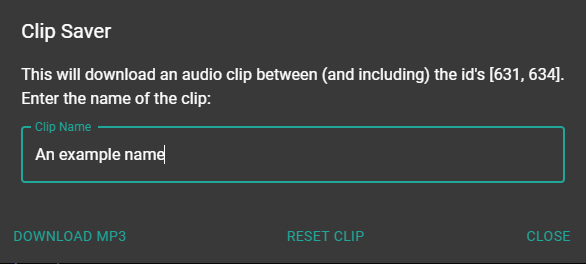
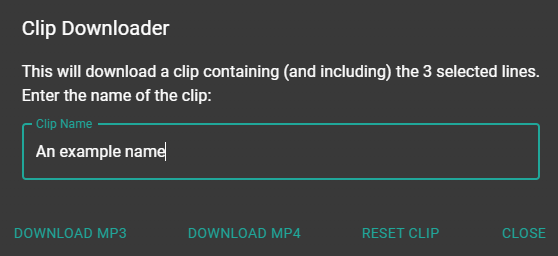
Updated docs

diff --git a/src/components/HelpPopup.jsx b/src/components/HelpPopup.jsx
@@ -7,7 +7,6 @@ import {
     DialogActions,
     DialogContent,
     DialogTitle,
-    Link,
     Typography,
 } from "@mui/material";
 import settings_img from "../assets/helpguide/settings.png";
@@ -41,13 +40,6 @@ export default function HelpPopup({ open, setOpen }) {
                 <DialogTitle id="alert-dialog-title">How to Use Live Transcript</DialogTitle>
                 <DialogContent>
                     <div>
-                        <p>
-                            A guide can also be found here:{" "}
-                            <Link href="https://github.com/duckautomata/live-transcript/blob/master/README.md#how-to-use">
-                                Live Transcript GitHub
-                            </Link>
-                        </p>
-
                         {/* Settings */}
                         <Accordion>
                             <AccordionSummary
@@ -74,6 +66,10 @@ export default function HelpPopup({ open, setOpen }) {
                                             System default will use whatever you set in your operating system. This is
                                             set by default.
                                         </blockquote>
+                                    </li>
+                                    <li>
+                                        Density: How much space should be between lines.
+                                        <blockquote>Select whichever makes it easier to read.</blockquote>
                                     </li>
                                     <li>
                                         Time Format: How you want the timestamp for each line to be formatted.
@@ -242,13 +238,17 @@ export default function HelpPopup({ open, setOpen }) {
                                 transcript. The benefits with using this instead of downloading each line separately is
                                 <ul>
                                     <li>Significantly faster since you do not have to combine them manually</li>
-                                    <li>No audio artifacts or missed audio between lines due to encoding issues</li>
+                                    <li>No artifacts or missed media between lines due to encoding issues</li>
                                     <li>Clearly see what you are clipping</li>
                                 </ul>
-                                As of now, only audio clipping is available.
+                                The type of clipping (mp3, mp4, or disabled) is determined by the server on what the
+                                server is storing. Depending on this, you will be able to see &#34;download mp3&#34;,
+                                &#34;download mp4&#34;, or nothing at all. The type of clipping can be changed when
+                                needed.
+                                <Typography variant="body1" gutterBottom />
                                 <Typography variant="body1" gutterBottom>
-                                    To start clipping, click on a line id and select &#34;Start Clipping&#34;. This will
-                                    do the following:
+                                    To start clipping, click on the triple dots on the line you want to clip; and select
+                                    &#34;Start Clip&#34;. This will do the following:
                                 </Typography>
                                 <ul>
                                     <li>
@@ -256,14 +256,14 @@ export default function HelpPopup({ open, setOpen }) {
                                         on the next id you pick)
                                     </li>
                                     <li>
-                                        Highlight all ids next to it in red to depict the range of the clip. Clips are
-                                        limited in how large they can get.
+                                        Highlight all triple dots next to it in orange to depict the range of the clip.
+                                        Clips are limited in how large they can get.
                                     </li>
                                     <li>Any lines that will be in the clip will now be highlighted in purple.</li>
                                 </ul>
                                 <img src={clippingStarted_img} width="100%" />
-                                To mark the second end of the clip, click on one of the red ids and click &#34;Download
-                                Clip&#34;.
+                                To mark the second end of the clip, click on one of the orange triple dots and click
+                                &#34;Process Clip&#34;.
                                 <img src={clippingMenuDownload_img} width="100%" />
                                 <Typography variant="caption">
                                     Caption: as you can see, the lines between 631 (the id I started with) and 634 (the
@@ -271,15 +271,19 @@ export default function HelpPopup({ open, setOpen }) {
                                     included in the clip.
                                 </Typography>
                                 <Typography variant="body1" gutterBottom>
-                                    When you click on the download button, a popup will appear. From here, give the clip
+                                    When you click on the process button, a popup will appear. From here, give the clip
                                     a name and click download to finish the clipping process.
+                                </Typography>
+                                <Typography variant="body1" gutterBottom>
+                                    Depending on what media type the server is storing, you will be able to download
+                                    mp3, mp4, or nothing.
                                 </Typography>
                                 <img src={clippingPopup_img} width="100%" />
                                 Important notes:
                                 <ul>
                                     <li>At any point, you can click Reset Clip to get out of the clipping process</li>
                                     <li>
-                                        If one of the lines in a clip does not have any audio (either it did not get
+                                        If one of the lines in a clip does not have any media (either it did not get
                                         saved or it was deleted), then the whole clip will get rejected and you will
                                         land on a Sever Error page.
                                     </li>

diff --git a/src/components/ClipperPopup.jsx b/src/components/ClipperPopup.jsx
@@ -51,11 +51,11 @@ const ClipperPopup = ({ wsKey }) => {
 
     return (
         <Dialog open={clipPopupOpen} onClose={handleClose}>
-            <DialogTitle>Clip Saver</DialogTitle>
+            <DialogTitle>Clip Downloader</DialogTitle>
             <DialogContent>
                 <Typography>
-                    This will download an audio clip between (and including) the ids [{clipStartIndex}, {clipEndIndex}
-                    ].
+                    This will download a clip containing (and including) the {1 + clipEndIndex - clipStartIndex}{" "}
+                    selected lines.
                 </Typography>
                 <Typography>Enter the name of the clip:</Typography>
                 <TextField

diff --git a/README.md b/README.md
@@ -7,13 +7,7 @@ Transcribes a live stream near real-time with a live latency of 4-6 seconds.
 _System_
 
 - **[Live Transcript System](#live-transcript-system)**
-
-_General_
-
-- **[Settings](#settings)**
-- **[Fix out-of-sync transcript](#fix-out-of-sync-transcript)**
-- **[Tagging Feature](#tagging-feature)**
-- **[Tagging Feature Notes](#note)**
+- **[Guide](#guide)**
 
 _Development_
 
@@ -27,78 +21,24 @@ _Development_
 ## System
 
 ### Live Transcript System
+
 Live Transcript is a system that contains three programs:
+
 - Worker: [live-transcript-worker](https://github.com/duckautomata/live-transcript-worker)
 - Server: [live-transcript-server](https://github.com/duckautomata/live-transcript-server)
 - Client: [live-transcript](https://github.com/duckautomata/live-transcript)
 
 All three programs work together to transcribe a livestream for us to use in real-time.
+
 - Worker will process a livestream, transcribe the audio, and then upload the results to the server.
 - Server acts as a cache layer between Worker and Client. It will store the current transcript. Once it receives a new transcript line, it will be broadcast to all connected clients.
 - Client (this) is the UI that renders the transcript for us to use.
 
-## How To Use
+### Guide
 
-![homepage](docs/homepage-example-light.png)
+A guide on how to use the website can be found by clicking the `Help` question mark icon on the sidebar.
 
-### Settings
-
-Settings are at the top right of the page. Click the cogwheel icon to view the settings menu.
-
-![settings](docs/settings.png)
-
-There are currently 5 settings. All settings are stored in a cookie and persist across sessions.
-
-- Theme: Select the color theme of the site. Light, Dark, or System default.
-    > System default will use whatever you set in your operating system. This is set by default.
-- Time Format: How you want the timestamp for each line to be formatted.
-    > Relative displays the time since the stream has started. Local displays the time in your local timezone.
-- New Lines at Top
-    > When enabled, new lines will appear at the top. When disabled, new lines will appear at the bottom. When disabled, you will need to constantly scroll down to see the newest lines.
-- Enable Tag Helper
-    > This enables a feature to help time a tag with the text that appears in the transcript. This will be explained further in [Tagging Feature](#tagging-feature).
-- Audio Downloader (beta)
-    > Enables you to download the mp3 file for a specific line. When enabled, click on the id you wish to download. Then select either "Download Audio" or "Play Audio".
-
-### Fix out-of-sync transcript
-
-Each line in the transcript has an ID associated with it. This allows you to tell whether your tags are out of sync.
-
-In the event that you are out of sync with the server, please refresh the page. Every page refresh will pull in the current state of the server and you will be back in sync.
-
-### Tagging Feature
-
-The tagging feature allows you to time a tag to a place in the transcript. This feature is off by default, so you will need to enable it in the settings.
-
-Once enabled, you will be able to hover over the text in the transcript and click specific sections (denoted by the color box that appears).
-
-![tag-highlight-text](docs/tag-highlihgt-text-light.png)
-
-These sections denote a specific part where you can set the tag to (the tags will be set to the beginning of the section).
-
-Once you find the section you want to time a tag to; click it and a menu will appear.
-
-![tag menu](docs/tag-menu.png)
-
-This is the tagging alignment menu. It takes the discord message ID of your tag, and calculates the offset you need for it to align with the beginning of the segment you selected.
-
-If you do not know how to get the message ID of your tag:
-
-1. Enable developer mode. Settings -> Advanced -> Enable developer mode
-2. Right-click on your message and click `Copy Message ID`
-
-![Message ID](docs/message-ID.png)
-
-The default offset is whatever your server's tagger bot is set to. For DPS, it is -20. This value is also stored in the cookie, so you will only have to change it once.
-
-Once both values are set, it will display the adjust command to run. As well as enable the button `Copy Command` to copy the command to your clipboard.
-
-![filled-out-tag-menu](docs/filled-out-tag-menu.png)
-
-#### Note
-
-1. As said above, this will time the tag to the beginning of the section you clicked. Meaning, that if an entire line is one section, then it will time it to go at the beginning of that line. The only way to make it start in the middle of a section is to guess how long a section is and change the offset accordingly.
-2. The timings seem to be _very_ accurate. When you want to start at the beginning of the section, it might be best to move it back by one second to give the YT player time to start the video/audio. Though this should be determined after testing it out for a few streams.
+![help button](/docs/help-button.png)
 
 ## Development
 
@@ -107,14 +47,14 @@ Once both values are set, it will display the adjust command to run. As well as 
 - Node 22
 - Vite to run locally
 - React19
-- MUI 5
+- MUI 7
 
 ### Running Locally
 
 1. Have Node 20 or later installed
 2. Clone the repo locally
 3. Run `npm install` to install dependencies
-4. Run `npm run dev` and open the site it gives you. It should be next to `Local: <site link>`
+4. Run `npm run dev` and open the site it gives you. Or press `o` and enter to open the site.
 
 Every time you save, Vite will automatically refresh the cache and the site should refresh with the new changes.
 
